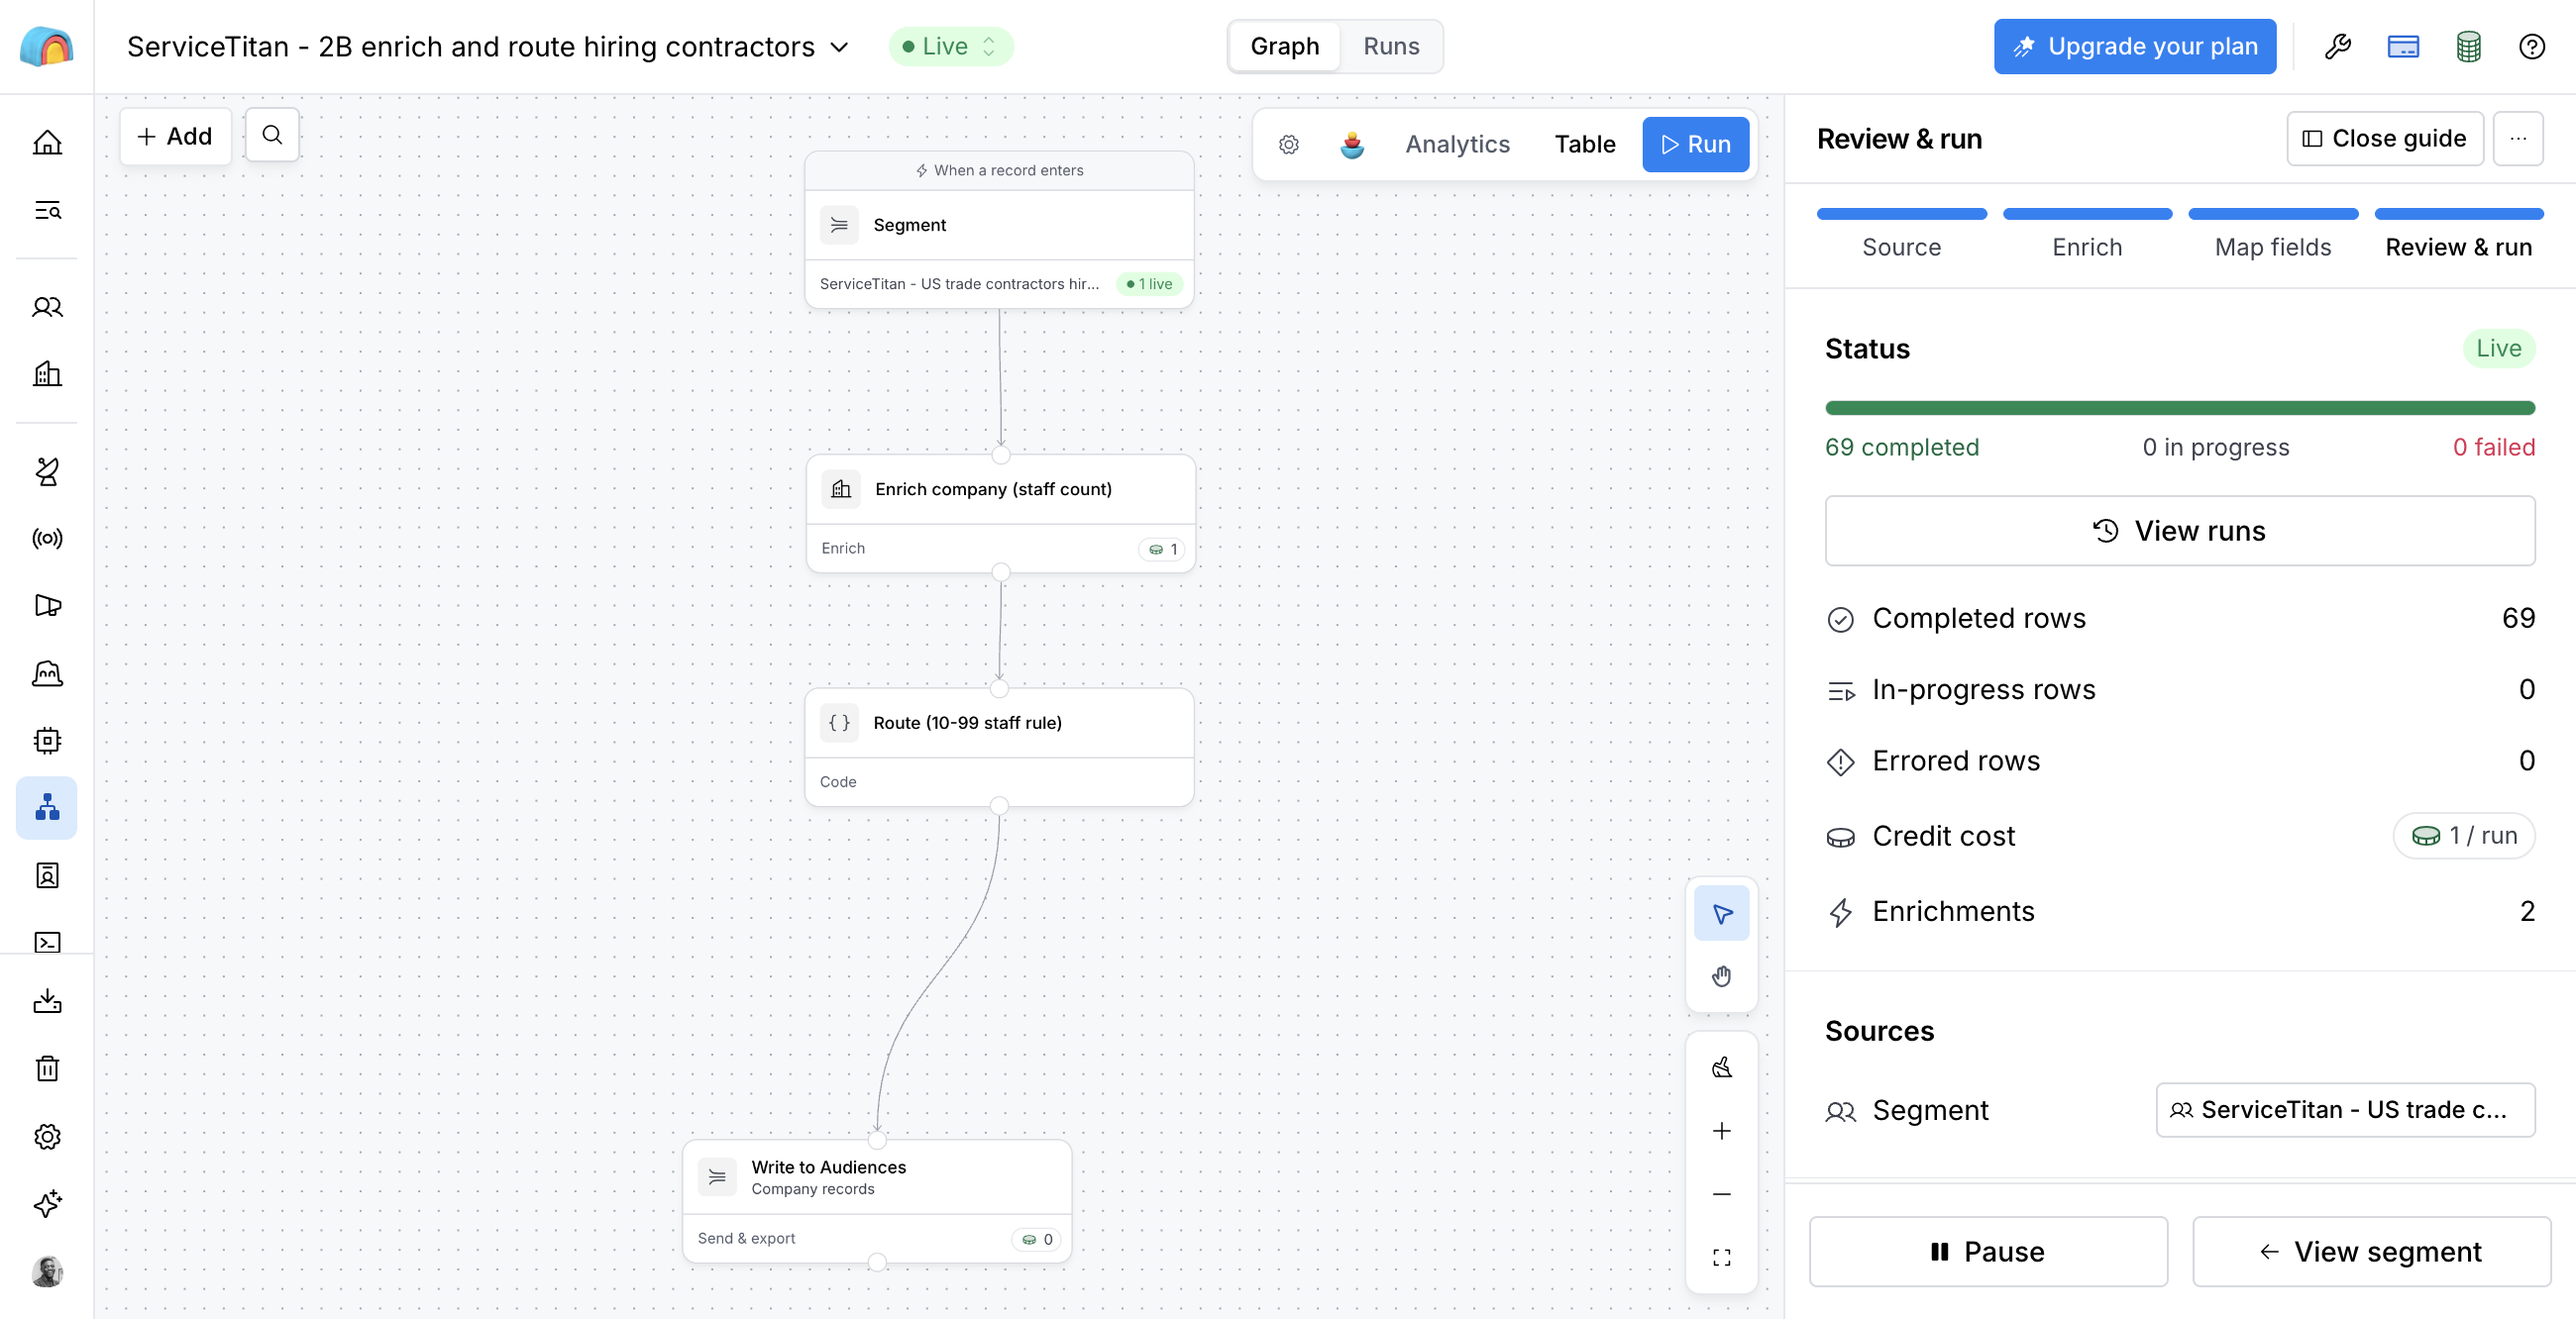
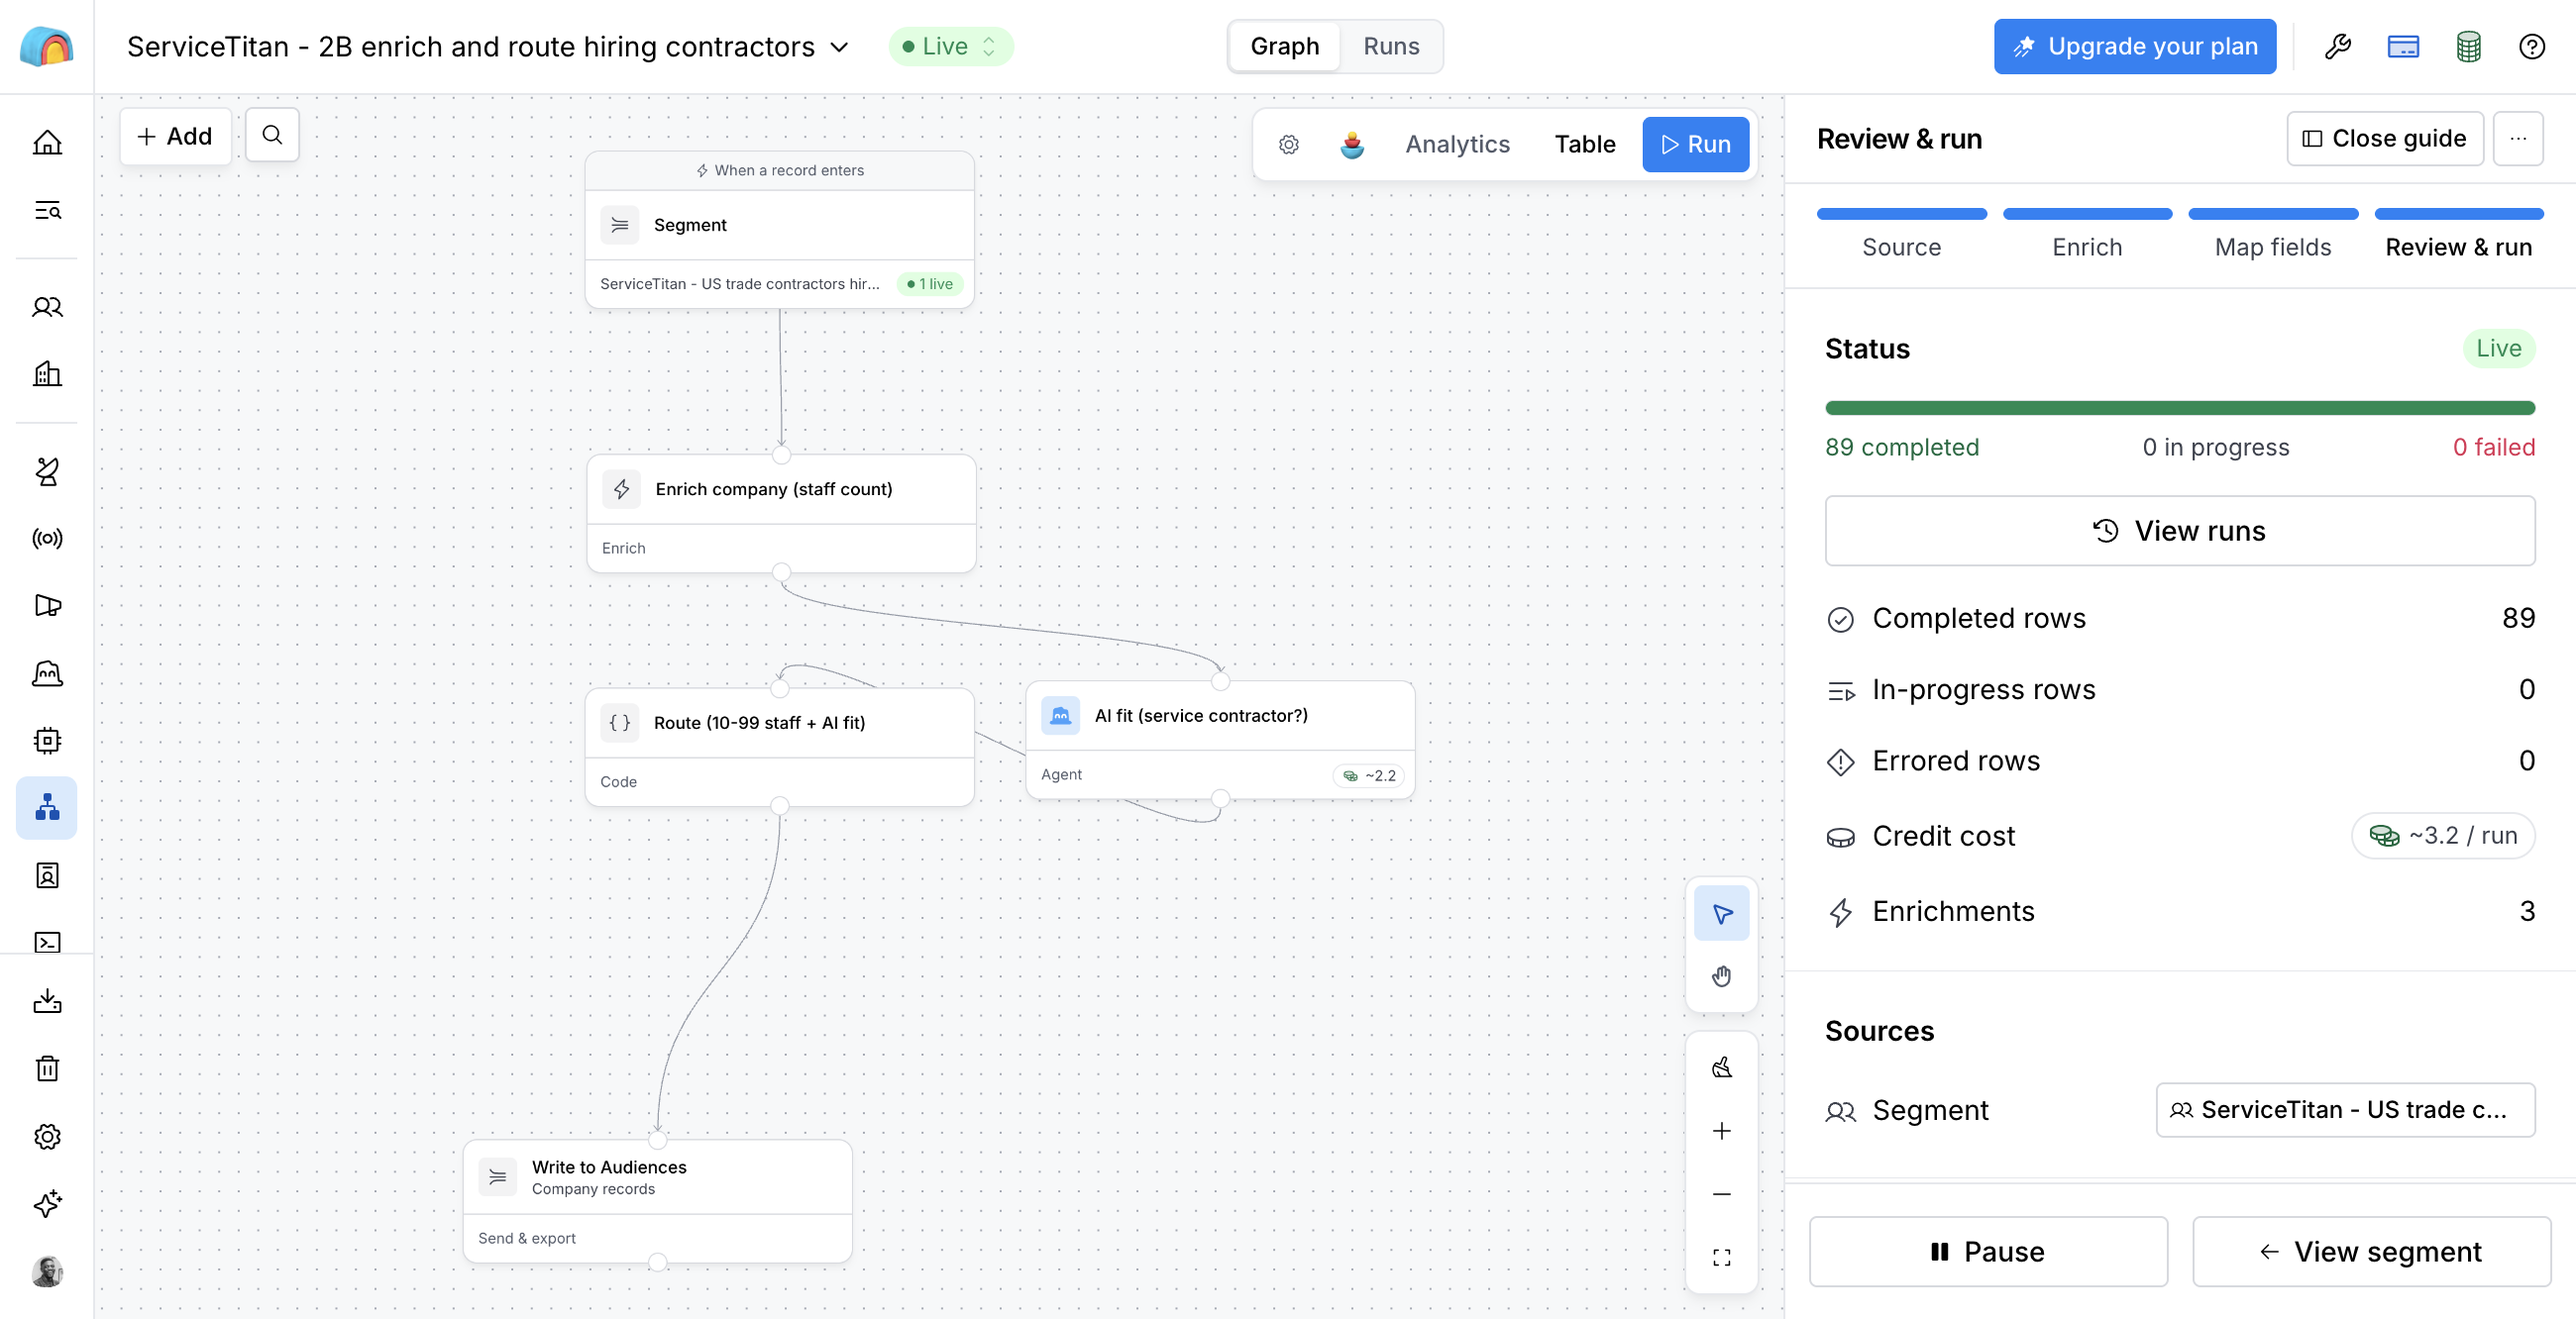
Week 2B V2: AI fit step, final routing results and cost

diff --git a/output/campaigns/office-under-pressure/week2b-audience-workflow/README.md b/output/campaigns/office-under-pressure/week2b-audience-workflow/README.md
@@ -1,6 +1,6 @@
 # Week 2B: Audience segment + Workflow (Segment, Enrich, Act)
 
-**Status:** LIVE in Clay, 27 Nov 2026. Workflow: https://app.clay.com/workspaces/736170/workflows/tc-workflows/wf_0tp63p7jJYZwTEDMV7q
+**Status:** LIVE in Clay (V2: staff count + AI fit), 27 Nov 2026. Workflow: https://app.clay.com/workspaces/736170/workflows/tc-workflows/wf_0tp63p7jJYZwTEDMV7q
 
 Week 2 proved the logic in a table (tables are for testing). Week 2B moves it to where it runs at scale: the companies
 live in Clay **Audiences**, a dynamic **segment** picks the ones worth acting on, and a **Workflow** enriches and routes
@@ -21,39 +21,49 @@ Week 2 trigger (`workflow-spec.md`).
   = true AND Likely ServiceTitan customer = false AND Size band is any of 11-50, 51-200. **49 companies**, the same 49 that
   passed Week 2's free checks. A random sample of 5 was checked against every criterion.
 
-## 3. The enrichment (one, because it decides qualification)
+## 3. The enrichment and the AI fit check
 **Enrich company** on the record's domain (identifier preserved from the trigger) returns the real staff count. Week 2
 showed Clay's size band is wrong for about 1 in 5 small contractors, so the band only selects; the count decides.
 
+**AI fit (added in V2, same prompt and model as the Week 2 AI column):** is this a home or building service contractor in
+HVAC, plumbing, electrical or garage doors? Answers yes / no / unclear only from the enrichment text, with the exact
+words as evidence, written onto the record. Size alone let through a capital firm, a locksmith, controls integrators and
+a staffing firm; the AI step drops them.
+
 ## 4. The Workflow and the routing rule
 ```
-Segment (record enters) -> Enrich company (staff count) -> Route (10-99 staff rule) -> Write to Audiences
+Segment (record enters) -> Enrich company (staff count) -> AI fit (service contractor?) -> Route (10-99 staff + AI fit) -> Write to Audiences
 ```
 | Route | Rule | Destination (visible) |
 |---|---|---|
-| Ready for review | 10 to 99 staff | segment "ServiceTitan 2B - Ready for review" |
-| Needs research | no staff count found | segment "ServiceTitan 2B - Needs research" |
-| Not a fit | staff count outside 10-99 | segment "ServiceTitan 2B - Not a fit" |
+| Ready for review | 10 to 99 staff AND AI says yes | segment "ServiceTitan 2B - Ready for review" |
+| Needs research | no staff count, OR 10-99 staff and AI says unclear | segment "ServiceTitan 2B - Needs research" |
+| Not a fit | staff outside 10-99, OR AI says no | segment "ServiceTitan 2B - Not a fit" |
 The rule is plain code, no AI, so every decision is explainable; the reason is written onto the record
-("56 staff, inside 10-99"). The write-back updates the same record by its Audience ID (never creates a duplicate) and
+("56 staff, service contractor: ..."). The write-back updates the same record by its Audience ID (never creates a duplicate) and
 skips blanks.
 
 ## 5. Test and result
-- Rule tested first on 8 sample values (including blank, text "10", 99.0 and 100): all routed correctly.
-- Two 10-company test runs, then the workflow was published and run on the whole segment.
-- **49 of 49 runs done, 0 failed. Ready for review 33 · Needs research 2 · Not a fit 14.** Examples: O'Connor Plumbing
-  56 staff -> Ready for review; Horsetooth Heating, Air & Plumbing 8 -> Not a fit; ECC 149 -> Not a fit; Electrify My
-  Home, no count -> Needs research.
-- **Cost:** 69 credits (Clay's run log): 20 for the two tests, 49 for the full run; loading and the segment were free.
+- Rule tested first on sample values (blank, text "10", 99.0, 100, yes / no / unclear): all routed correctly.
+- **V1 (size only):** two 10-company tests, then published and run on all 49: Ready 33, Needs research 2, Not a fit 14.
+  That showed size alone passes non-trade firms, so the AI step was added.
+- **V2 (size + AI fit):** tested on 10 companies (6 of 8 size-passes correctly dropped: LB Capital, Acme Lock and Door,
+  ControlTouch, Bestmark, Koniag, ECC), then published and run on all 49: **49 done, 0 failed.**
+- **Final: Ready for review 14 · Needs research 8 · Not a fit 27.** AI answers: 21 yes, 20 no, 8 unclear.
+  Examples: O'Connor Plumbing 56 staff, AI yes ("provides dependable plumbing...") -> Ready for review; LB Capital 41
+  staff, AI no ("Driving Growth for Roofing Businesses") -> Not a fit; Bradham Brothers 15 staff, AI unclear ->
+  Needs research.
+- **Cost (Clay run log):** 167.2 credits, 158 runs, 0 failed. V1: tests 20 + full run 49. V2: four 10-company tests 44.2
+  + full run 54 (about 1.1 per company: staff count + AI). Loading companies and the segments were free.
 
 ## What a reviewer should know
-- "Ready for review" means size and signal pass, not that the company is a service contractor. The Week 2 AI fit check
-  is the second gate: it drops e.g. a capital firm and a trade-show company that pass on size alone. Adding that check as
-  a second workflow step is the next improvement.
-- The workflow is live: any company that later enters the segment is enriched and routed automatically (1 credit each).
+- "Needs research" holds 6 companies at 10-99 staff where the AI could not tell from a short description (e.g. Oak
+  Electric, Infinity Technical Services, which Week 2's website check confirmed as service contractors). A website-read
+  step on "unclear" rows, as in Week 2, is the next improvement.
+- The workflow is live: any company that later enters the segment is enriched and routed automatically (about 1.3 credits each).
 - Next (Week 4): "Ready for review" companies flow on to people search and outreach, or into HubSpot through the
   Lead channel value "Outbound - office under pressure".
 
 ## Evidence
-`screenshots/1-workflow-graph.png` (the 4 steps) · `screenshots/2-workflow-runs.png` (49 runs, 0 failed, 69 credits) ·
+`screenshots/1-workflow-graph.png` (the 5 steps) · `screenshots/2-workflow-runs.png` (all runs, 0 failed) ·
 `screenshots/3-audiences.png`

diff --git a/work-log/2026-W48.md b/work-log/2026-W48.md
@@ -73,3 +73,4 @@ Linked priorities: [weekly-priorities/2026-W48.md](../weekly-priorities/2026-W48
 - Week 3 step 10 | Tests through the real form: 6 of 6 as designed after 2 fixes found by test 6 (deal name blank with no company; task without owner). 4 Clay credits in total. Results and evidence in crm-design.md 1.6 and context/crm/screenshots/.
 - Week 3 step 11 | Oyinlola invited as a view-only user (invite sent, pending her acceptance). Test leftovers deleted. Click-by-click guide: context/crm/build-guide.md. System doc, CLAUDE.md index updated.
 - Week 2B | Audience + Workflow in Clay: 56 Week 2 companies loaded into Audiences (free, keyed on domain); segment "ServiceTitan - US trade contractors hiring (30 days)" = 49 companies (same 49 as Week 2's free checks; sample of 5 checked); workflow Segment > Enrich company > Route (10-99 staff rule, plain code) > Write to Audiences, plus 3 destination segments. Rule tested on 8 values first. Two 10-company tests, then published and run on all 49: 49 done, 0 failed; Ready for review 33, Needs research 2, Not a fit 14. Cost 69 credits. Write-up: output/campaigns/office-under-pressure/week2b-audience-workflow/README.md.
+- Week 2B V2 | AI fit step added to the workflow (Week 2 prompt and model, answers yes/no/unclear with evidence, written to the record); route = 10-99 staff AND AI yes. Tested on 10, then published V2 and run on all 49: 49 done, 0 failed. Final: Ready for review 14, Needs research 8, Not a fit 27 (AI: 21 yes, 20 no, 8 unclear). 2B total 167.2 credits per Clay's run log (V1 69, V2 tests 44.2, V2 full 54).

diff --git a/weekly-priorities/2026-W48.md b/weekly-priorities/2026-W48.md
@@ -20,7 +20,7 @@ Week 2 (Clay table from the spec):
 
 Week 2B (Clay Audience + Workflow):
 - [x] Audience segment from the Hiring Contractors records (49 companies)
-- [x] Workflow that enriches and routes those records (live: 33 ready, 2 research, 14 not a fit)
+- [x] Workflow that enriches and routes those records (live V2 with AI fit: 14 ready, 8 research, 27 not a fit)
 
 Week 3 (HubSpot pipeline + lifecycle workflow):
 - [x] CRM design on paper first (`context/crm/crm-design.md`)
